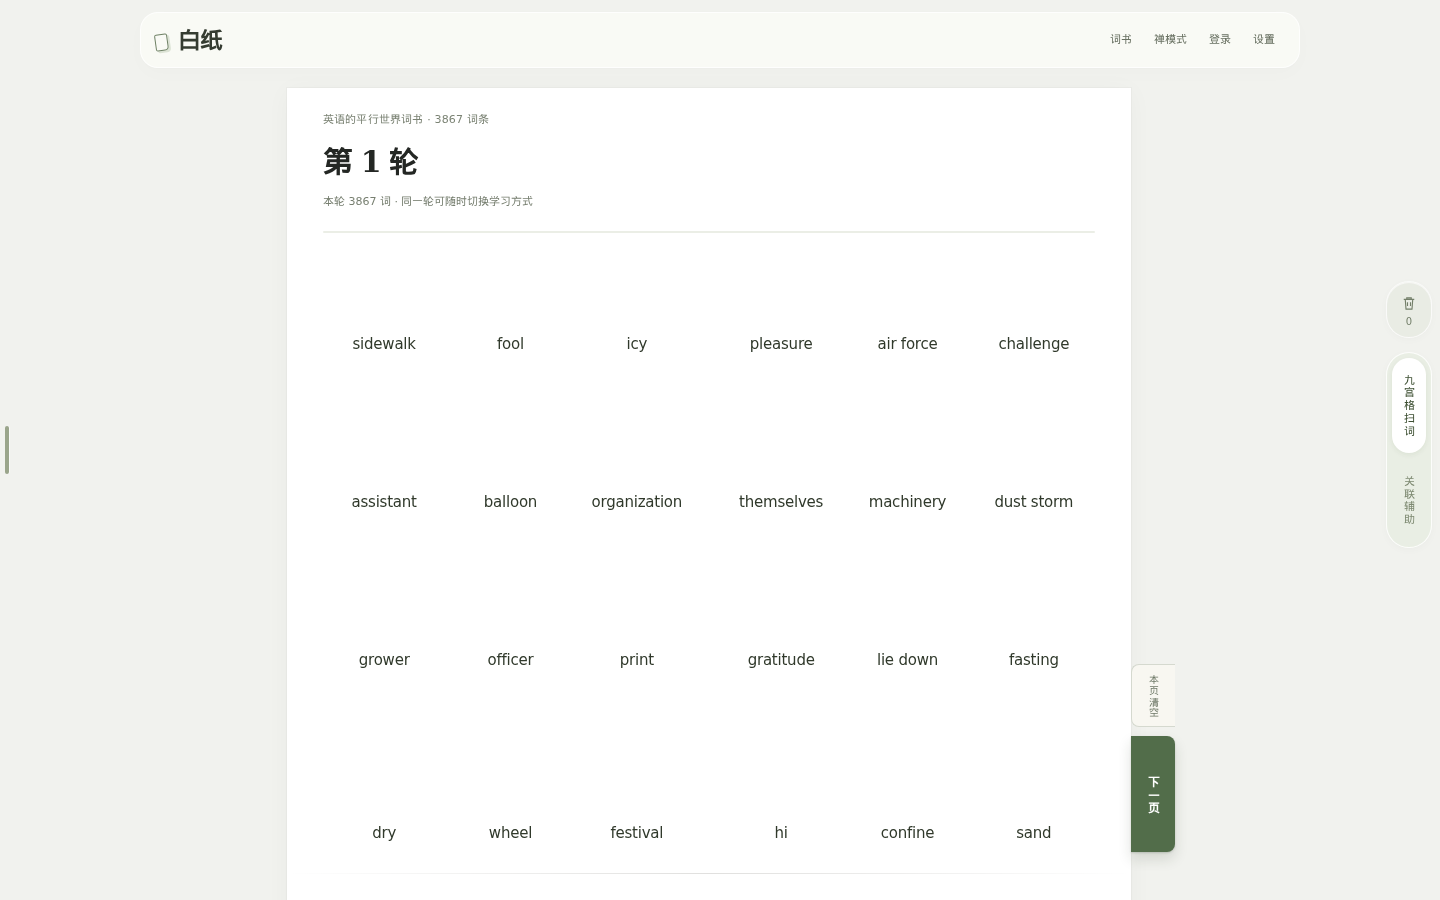
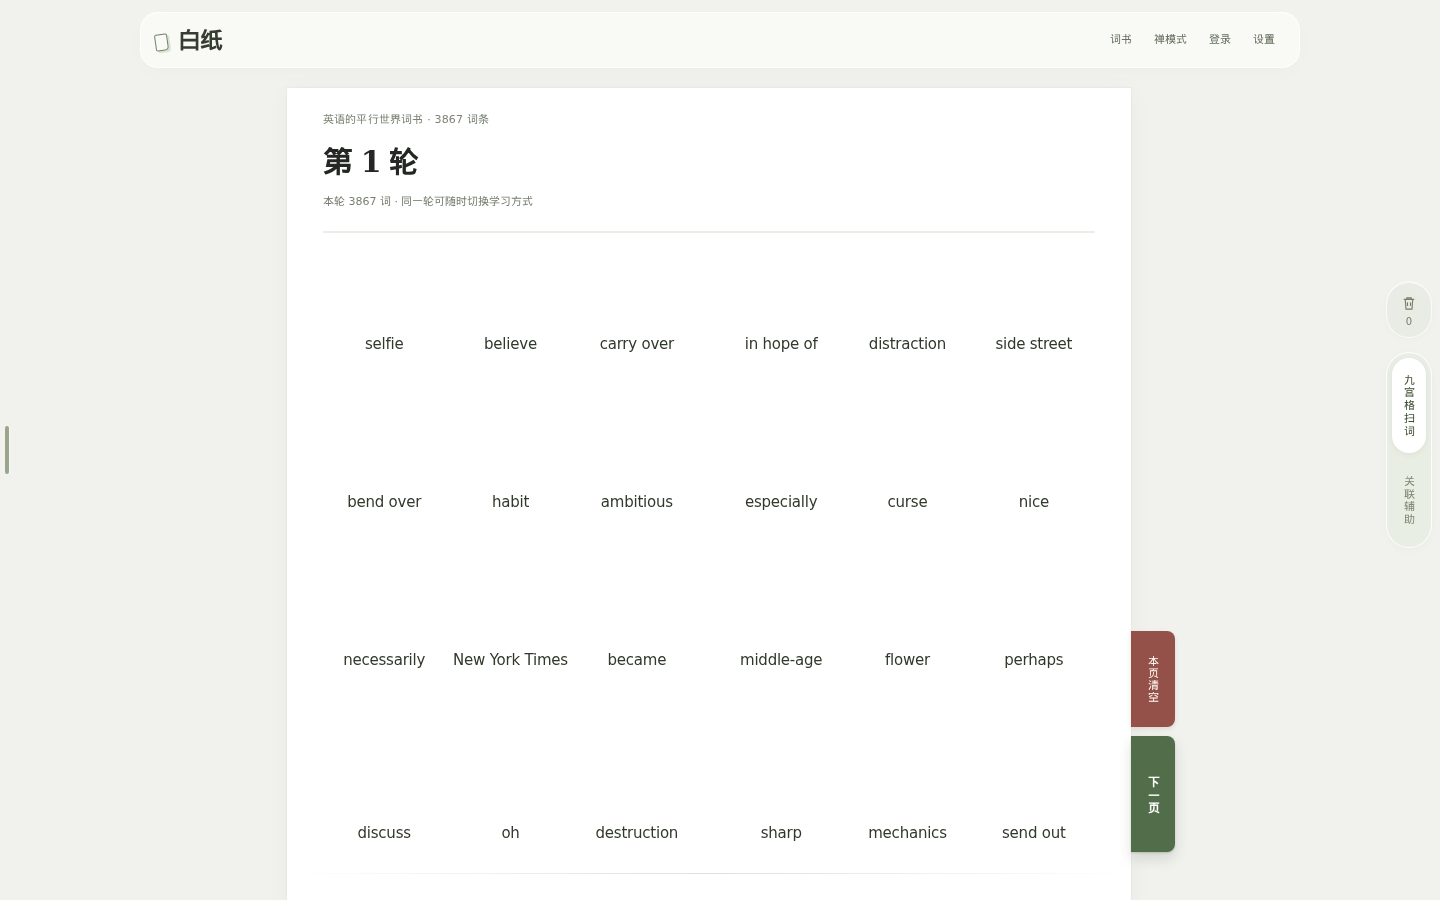
style: make clear page a red vertical paper tab

diff --git a/src/modules/vocabulary/components/vocabulary-screen.module.css b/src/modules/vocabulary/components/vocabulary-screen.module.css
@@ -2089,31 +2089,43 @@
 
 .clearPageButton {
   width: 44px;
-  min-height: 60px;
-  padding: 9px 8px;
-  border: 1px solid #d5d9cf;
-  border-right: 0;
-  border-radius: 8px 0 0 8px;
-  background: #f8f7f1;
-  color: #6f7a68;
+  min-height: 96px;
+  padding: 14px 8px;
+  border: 0;
+  border-radius: 0 8px 8px 0;
+  background: #94514a;
+  color: #fff9f0;
   cursor: pointer;
   font: inherit;
-  font-size: 10px;
-  line-height: 1.4;
+  font-size: 11px;
+  line-height: 1.45;
   writing-mode: vertical-rl;
   text-orientation: mixed;
-  letter-spacing: 0.08em;
+  letter-spacing: 0.1em;
+  box-shadow: 0 2px 5px #5a211c1f;
+  transition:
+    background 160ms,
+    transform 160ms,
+    box-shadow 160ms;
 }
 
 .clearPageButton:hover:not(:disabled) {
-  border-color: #a9b8a5;
-  background: #fff;
-  color: #2f4a35;
+  background: #7f403a;
+  box-shadow: 0 3px 7px #5a211c2b;
+}
+
+.clearPageButton:active:not(:disabled) {
+  transform: scale(0.97);
+}
+
+.clearPageButton:focus-visible {
+  outline: 2px solid #7f403a;
+  outline-offset: 2px;
 }
 
 .clearPageButton:disabled {
   cursor: default;
-  opacity: 0.35;
+  opacity: 0.4;
 }
 
 .paperAdvance .primaryButton {
@@ -2625,7 +2637,9 @@
   }
   .clearPageButton {
     width: 40px;
-    min-height: 56px;
+    min-height: 88px;
+    padding: 12px 7px;
+    font-size: 10px;
   }
   .paperAdvance .primaryButton {
     width: 40px;
